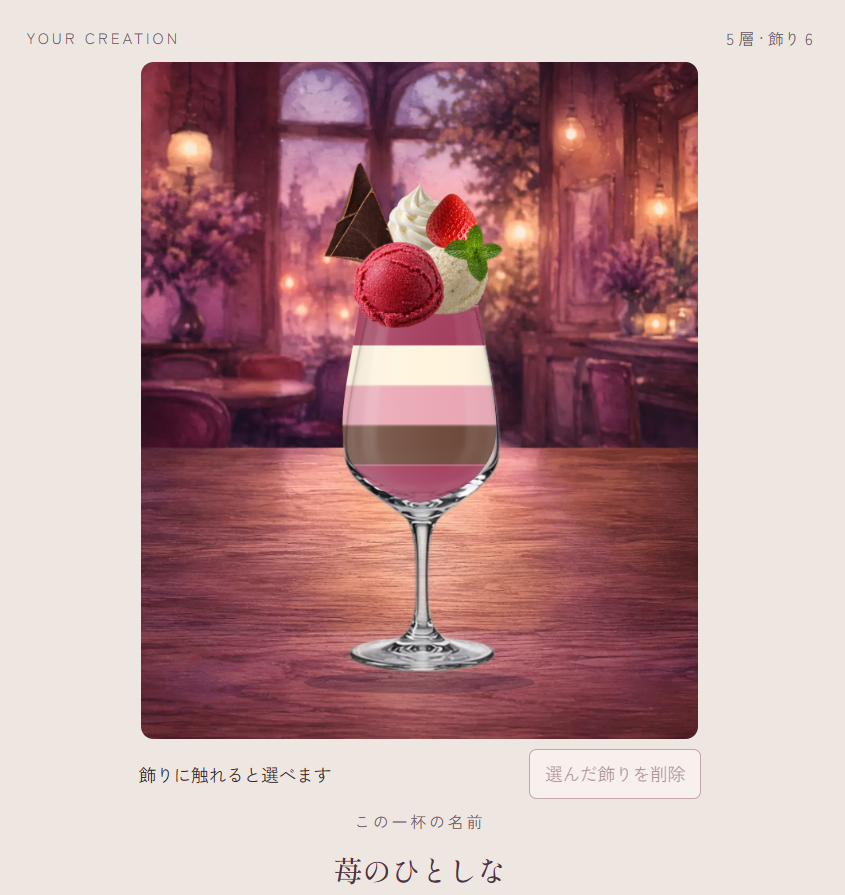
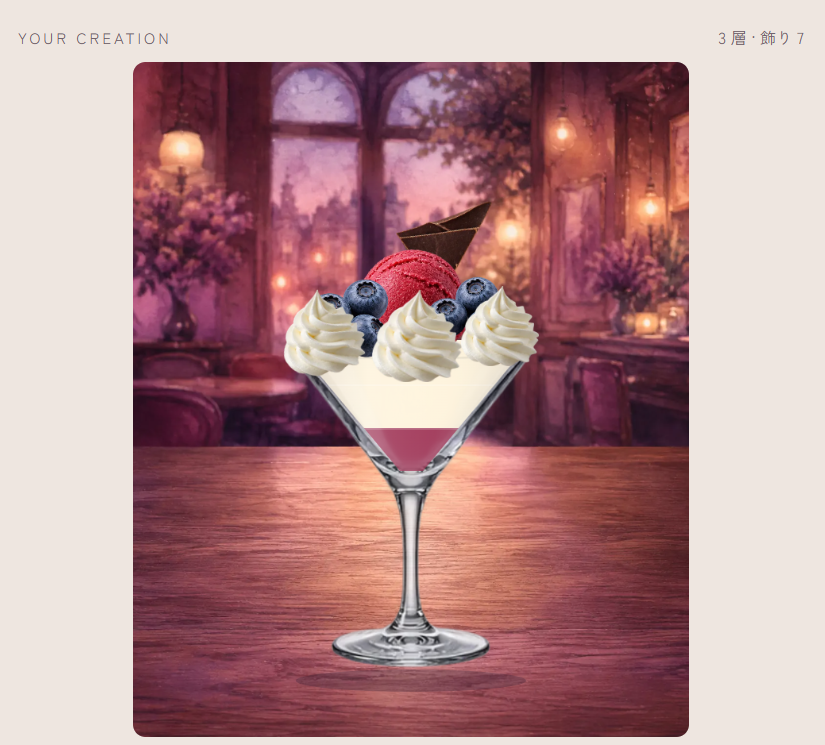
Replace Parfait Atelier nighttime preview

diff --git a/index.html b/index.html
@@ -75,7 +75,7 @@
               <p>昼と夜のカフェで、できあがった一杯を写真に。</p>
               <div class="parfait-previews">
                 <img src="./assets/work-parfait-day.png" width="837" height="747" alt="明るい昼のカフェを背景に、クリームとフルーツを重ねたパフェの実際の画面" loading="lazy">
-                <img src="./assets/work-parfait-night.png" width="845" height="895" alt="夜の喫茶店を背景に、アイスやチョコレートを飾ったパフェの実際の画面" loading="lazy">
+                <img src="./assets/work-parfait-night.png?v=20260921-230726" width="825" height="745" alt="夜の喫茶店を背景に、カクテルグラスにクリーム、ベリー、アイス、チョコレートを飾ったパフェの実際の画面" loading="lazy">
               </div>
               <span class="parfait-link">β版を体験する →</span>
             </div>

diff --git a/index-en.html b/index-en.html
@@ -75,7 +75,7 @@
               <p>Capture your creation in a café by day or night.</p>
               <div class="parfait-previews">
                 <img src="./assets/work-parfait-day.png" width="837" height="747" alt="Actual screen with a parfait layered with cream and fruit in a bright daytime café" loading="lazy">
-                <img src="./assets/work-parfait-night.png" width="845" height="895" alt="Actual screen with a parfait decorated with ice cream and chocolate in a nighttime café" loading="lazy">
+                <img src="./assets/work-parfait-night.png?v=20260921-230726" width="825" height="745" alt="Actual screen with a parfait in a cocktail glass topped with cream, berries, ice cream, and chocolate in a nighttime café" loading="lazy">
               </div>
               <span class="parfait-link">Try the beta (Japanese) →</span>
             </div>
